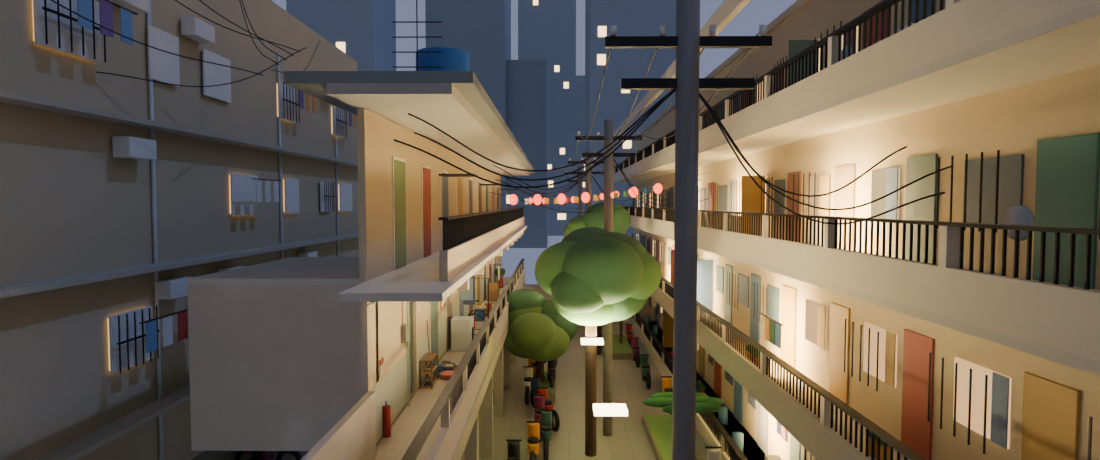
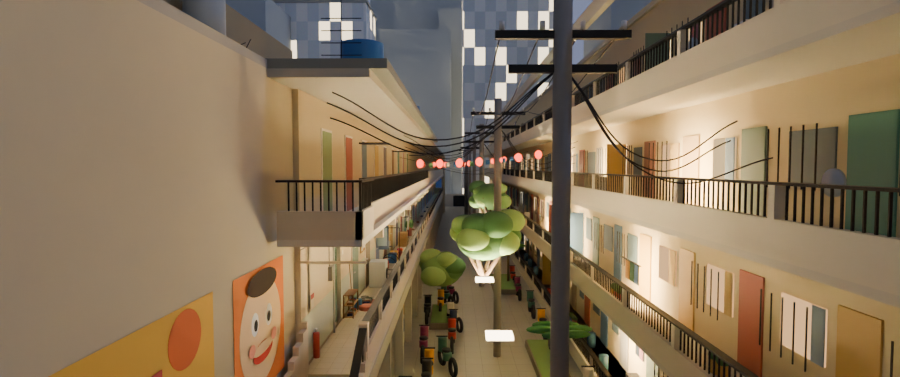
Ho so 02: chi tiet xa (nha cua so, can cau, thap, cay, chim), sua chau cay/cay lo lung
Claude-Session: https://claude.ai/code/session_015xtvRhLRyfqVC2mbHabEYR

diff --git a/episodes/hem-co-chuyen/ho-so-02-nguoi-lam-thay/assets/boi-canh-3d/moi_truong.py b/episodes/hem-co-chuyen/ho-so-02-nguoi-lam-thay/assets/boi-canh-3d/moi_truong.py
@@ -130,7 +130,8 @@ def build(X, m, coll, night, hl_y1):
             elif kind == 'cay':
                 for k in range(r.randint(2, 4)):
                     cyl(f'env_chau{nm}{k}', cx - 0.2, y + 0.1 + k * 0.3, zb + 0.15, 0.1, 0.3, mat(r.choice(['#b0605a', '#6a8aa6', '#c9a15a']), 0.7), coll=coll, bevel=0.01)
-                    sphere(f'env_la{nm}{k}', cx - 0.2, y + 0.1 + k * 0.3, zb + 0.4, 0.13, mat('#4f7a4a', 0.8), scale=(1, 1, 0.8), coll=coll)
+                    sphere(f'env_la{nm}{k}', cx - 0.2, y + 0.1 + k * 0.3, zb + 0.37, 0.13, mat('#4f7a4a', 0.8), scale=(1, 1, 0.8), coll=coll)
+                    cyl(f'env_than_la{nm}{k}', cx - 0.2, y + 0.1 + k * 0.3, zb + 0.33, 0.012, 0.08, mat('#5a4a2a', 0.9), coll=coll)
             elif kind == 'phoi':
                 B(f'phoi_k{nm}', BX - 0.25, BX - 0.2, y, y + 1.4, zb + 1.7, zb + 1.72, steel, coll=coll)
                 for k in range(r.randint(2, 4)): B(f'ao{nm}{k}', BX - 0.24, BX - 0.22, y + 0.1 + k * 0.33, y + 0.38 + k * 0.33, zb + 1.2, zb + 1.7, mat(r.choice(['#e8e4d8', '#7fa0c0', '#d8a05a', '#8a6a9a', '#5a7a5a']), 0.9), coll=coll)
@@ -166,9 +167,10 @@ def build(X, m, coll, night, hl_y1):
     def tree(x, y, h, tint='#4f7a4a'):
         for k in range(4):  # cành chính toả ra từ thân
             a = k * 1.57 + rnd.uniform(0, 0.6); canh(x, y, GZ + h * 0.5, 0.9 * math.cos(a), 0.9 * math.sin(a), h * 0.22, 0.07)
+        sphere(f'env_tan_chinh{x:.0f}{y:.0f}', x, y, GZ + h * 0.72, 0.95, mat(tint, 0.85), scale=(1, 1, 0.8), coll=coll)  # tán chính ôm đỉnh thân
         for k in range(14):  # cụm lá nhỏ ở đầu cành, nhiều tông xanh
-            a = rnd.uniform(0, 6.283); rr = rnd.uniform(0.4, 1.4)
-            sphere(f'env_cum_la{x:.0f}{y:.0f}{k}', x + rr * math.cos(a), y + rr * math.sin(a), GZ + h * 0.7 + rnd.uniform(-0.4, 0.9), rnd.uniform(0.38, 0.6), mat(rnd.choice(['#5f8d54', '#7aa35f', '#4a7a47', '#8db36a']), 0.85), scale=(1, 1, 0.75), coll=coll)
+            a = rnd.uniform(0, 6.283); rr = rnd.uniform(0.2, 0.95)
+            sphere(f'env_cum_la{x:.0f}{y:.0f}{k}', x + rr * math.cos(a), y + rr * math.sin(a), GZ + h * 0.7 + rnd.uniform(-0.3, 0.7), rnd.uniform(0.38, 0.6), mat(rnd.choice(['#5f8d54', '#7aa35f', '#4a7a47', '#8db36a']), 0.85), scale=(1, 1, 0.75), coll=coll)
     def tree_old(x, y, h, tint='#4f7a4a'):
         cyl(f'env_than_cay{x:.0f}{y:.0f}', x, y, GZ + h * 0.3, 0.16, h * 0.6, mat('#5a4636', 0.95), coll=coll, bevel=0.02)
         for k in range(9):
@@ -298,6 +300,7 @@ def build(X, m, coll, night, hl_y1):
     mo_rong(X, m, coll, night, hl_y1)
     hem_chi_tiet(X, coll, night)
     tranh_tuong(X, coll, night)
+    xa_chi_tiet(X, coll, night)
     # ------------------------------------------------------------ cửa hành lang phòng Nam: mỗi cửa một cảnh riêng
     items = ['giay', 'may_giat', 'xe_dap', 'ghe_ban', 'ban_tho', 'carton', 'phoi_quat', 'khoa_cay']
     for k, kind in enumerate(items):
@@ -340,7 +343,7 @@ def build(X, m, coll, night, hl_y1):
         elif kind == 'khoa_cay':
             B('rieng_khoa', EX - 0.06, EX - 0.03, a + 0.7, a + 0.78, 1.0, 1.15, steel, coll=coll)
             cyl('rieng_chau_cay', EX - 0.35, a - 0.2, 0.3, 0.15, 0.6, mat('#b0605a', 0.7), coll=coll, bevel=0.015)
-            for q in range(7): sphere(f'env_rieng_la{q}', EX - 0.35 + 0.15 * math.cos(q * 0.9), a - 0.2 + 0.15 * math.sin(q * 0.9), 0.75 + 0.06 * q % 4 * 0.2, 0.12, mat('#4f7a4a', 0.8), scale=(1, 1, 1.5), coll=coll)
+            for q in range(7): sphere(f'env_rieng_la{q}', EX - 0.35 + 0.15 * math.cos(q * 0.9), a - 0.2 + 0.15 * math.sin(q * 0.9), 0.66 + 0.05 * (q % 4), 0.12, mat('#4f7a4a', 0.8), scale=(1, 1, 1.5), coll=coll)
         # đèn cửa + số phòng riêng
         B(f'rieng_den{k}', EX - 0.09, EX, a + 0.3, a + 0.5, 2.18, 2.28, mat('#d8d4c8', 0.5), bevel=0.01, coll=coll)
         sphere(f'env_rieng_bong{k}', EX - 0.06, a + 0.4, 2.12, 0.05, glow('#fff1d6', 12.0 if night else 1.5), coll=coll)
@@ -524,9 +527,9 @@ def hem_chi_tiet(X, coll, night, rnd_seed=303):
     for i in range(6):
         yy = y0 + 0.25 + i * 0.45
         cyl(f'env_hc_chau{i}', AX - d + 0.14, yy, zb + 0.18, 0.12, 0.3, mat(rnd.choice(['#b0605a', '#c8a15a', '#6a8aa6']), 0.7), coll=coll, bevel=0.01)
-        for q in range(4): sphere(f'env_hc_la{i}_{q}', AX - d + 0.14 + 0.08 * math.cos(q * 1.6), yy + 0.08 * math.sin(q * 1.6), zb + 0.5 + 0.06 * q % 3 * 0.3, 0.12, mat(rnd.choice(['#4f7a4a', '#6f9a55']), 0.8), scale=(1, 1, 1.2), coll=coll)
+        for q in range(4): sphere(f'env_hc_la{i}_{q}', AX - d + 0.14 + 0.08 * math.cos(q * 1.6), yy + 0.08 * math.sin(q * 1.6), zb + 0.38 + 0.04 * (q % 3), 0.12, mat(rnd.choice(['#4f7a4a', '#6f9a55']), 0.8), scale=(1, 1, 1.2), coll=coll)
         if i % 2 == 0:
-            for q in range(3): sphere(f'env_hc_hoa{i}_{q}', AX - d + 0.14 + 0.05 * q, yy + 0.04 * q, zb + 0.62, 0.05, mat(rnd.choice(['#e86a8a', '#f2d24a', '#e8e4d8']), 0.7), coll=coll)
+            for q in range(3): sphere(f'env_hc_hoa{i}_{q}', AX - d + 0.14 + 0.05 * q, yy + 0.04 * q, zb + 0.5, 0.05, mat(rnd.choice(['#e86a8a', '#f2d24a', '#e8e4d8']), 0.7), coll=coll)
     # dây phơi ngang ban công + quần áo (khác nhau)
     B('bc_day_phoi', AX - d + 0.1, AX - 0.1, y0 + 0.2, y0 + 0.215, zb + 1.9, zb + 1.915, steel, coll=coll)
     for q in range(5):
@@ -567,7 +570,7 @@ def hem_chi_tiet(X, coll, night, rnd_seed=303):
     for k in range(3): cyl(f'env_hc_thung{k}', W + T + 1.9, -2.0 + k * 0.6, GZ + 0.4, 0.26, 0.8, mat(rnd.choice(['#3b6e4b', '#2b4a7a', '#8a8a8a']), 0.55), coll=coll, bevel=0.02)
     for k in range(5):
         cyl(f'env_hc_chau_hem{k}', W + T + 0.4, -3.5 + k * 1.1, GZ + 0.15, 0.17, 0.3, mat(rnd.choice(['#b0605a', '#c8a15a']), 0.7), coll=coll, bevel=0.01)
-        for q in range(4): sphere(f'env_hc_la_hem{k}_{q}', W + T + 0.4 + 0.09 * math.cos(q * 1.6), -3.5 + k * 1.1 + 0.09 * math.sin(q * 1.6), GZ + 0.45 + 0.05 * q, 0.14, mat('#4f7a4a', 0.8), scale=(1, 1, 1.3), coll=coll)
+        for q in range(4): sphere(f'env_hc_la_hem{k}_{q}', W + T + 0.4 + 0.09 * math.cos(q * 1.6), -3.5 + k * 1.1 + 0.09 * math.sin(q * 1.6), GZ + 0.38 + 0.04 * q, 0.14, mat('#4f7a4a', 0.8), scale=(1, 1, 1.3), coll=coll)
     B('vung_nuoc', W + T + 0.5, W + T + 1.5, 1.0, 2.6, GZ + 0.002, GZ + 0.006, mat('#6f8590', 0.05), coll=coll)
     B('ong_thoat_nuoc', W + T + 0.02, W + T + 0.08, 4.2, 4.26, GZ, GZ + FL * 3, mat('#cfd3cf', 0.45), coll=coll)
 
@@ -631,3 +634,85 @@ def tranh_tuong(X, coll, night=False):
     mural('hem_hoa_sen', '-x', AX, -9.0, GZ + 0.3, 3.4, 2.3, HOA_SEN)
     mural('hem_pho_xe', '-x', AX, 5.2, GZ + 0.3, 4.4, 2.1, PHO_XE)
     mural('hem_mat_cuoi', '-x', AX, -4.6, GZ + 0.3, 1.9, 1.9, MAT_CUOI)
+
+
+def vat_lieu_nha_xa(tag, mau_tuong, mau_cua, night):
+    """Mặt tiền nhà xa: lưới cửa sổ (Checker theo toạ độ vật thể), đậm dần theo chiều cao; ban đêm một phần ô phát sáng."""
+    k = ('xa', tag, night)
+    if k in _cache: return _cache[k]
+    m = bpy.data.materials.new('exa_' + tag); m.use_nodes = True; nt = m.node_tree; N, L = nt.nodes, nt.links
+    for n in list(N): N.remove(n)
+    import mathutils
+    def hx(h): h = h.lstrip('#'); return tuple(int(h[i:i + 2], 16) / 255 for i in (0, 2, 4)) + (1,)
+    tc = N.new('ShaderNodeTexCoord'); mp = N.new('ShaderNodeMapping'); mp.inputs['Scale'].default_value = (0.5, 0.5, 0.3); L.new(tc.outputs['Object'], mp.inputs['Vector'])
+    ck = N.new('ShaderNodeTexChecker'); ck.inputs['Scale'].default_value = 1.0; L.new(mp.outputs['Vector'], ck.inputs['Vector'])
+    ck.inputs['Color1'].default_value = hx(mau_tuong); ck.inputs['Color2'].default_value = hx(mau_cua)
+    nz = N.new('ShaderNodeTexNoise'); nz.inputs['Scale'].default_value = 4.0; L.new(tc.outputs['Object'], nz.inputs['Vector'])
+    mix = N.new('ShaderNodeMix'); mix.data_type = 'RGBA'; mix.inputs['Factor'].default_value = 0.12; L.new(ck.outputs['Color'], mix.inputs['A']); L.new(nz.outputs['Color'], mix.inputs['B'])
+    bs = N.new('ShaderNodeBsdfPrincipled'); bs.inputs['Roughness'].default_value = 1.0; L.new(mix.outputs['Result'], bs.inputs['Base Color'])
+    out = N.new('ShaderNodeOutputMaterial')
+    if night:
+        em = N.new('ShaderNodeEmission'); em.inputs['Color'].default_value = (1.0, 0.82, 0.55, 1); em.inputs['Strength'].default_value = 2.2
+        fl = N.new('ShaderNodeVectorMath'); fl.operation = 'FLOOR'; L.new(mp.outputs['Vector'], fl.inputs[0])
+        nz2 = N.new('ShaderNodeTexNoise'); nz2.inputs['Scale'].default_value = 2.7; nz2.inputs['Detail'].default_value = 0.0; L.new(fl.outputs['Vector'], nz2.inputs['Vector'])
+        ths = N.new('ShaderNodeMath'); ths.operation = 'GREATER_THAN'; ths.inputs[1].default_value = 0.52; L.new(nz2.outputs['Fac'], ths.inputs[0])
+        win = N.new('ShaderNodeMath'); win.operation = 'LESS_THAN'; win.inputs[1].default_value = 0.5; L.new(ck.outputs['Fac'], win.inputs[0])
+        both = N.new('ShaderNodeMath'); both.operation = 'MULTIPLY'; L.new(ths.outputs[0], both.inputs[0]); L.new(win.outputs[0], both.inputs[1])
+        mx = N.new('ShaderNodeMixShader'); L.new(both.outputs[0], mx.inputs[0]); L.new(bs.outputs[0], mx.inputs[1]); L.new(em.outputs[0], mx.inputs[2]); L.new(mx.outputs[0], out.inputs['Surface'])
+    else:
+        L.new(bs.outputs[0], out.inputs['Surface'])
+    _cache[k] = m; return m
+
+
+def xa_chi_tiet(X, coll, night):
+    """Vài chi tiết đơn giản ở xa: toà nhà có lưới cửa sổ, bể nước + ăng-ten + hộp kỹ thuật trên mái, cần cẩu công trường, tháp phát sóng có đèn đỏ,
+    dãy cây xa, đàn chim, ống khói/khối điều hoà trung tâm."""
+    box, cyl, sphere, M = X.box, X.cyl, X.sphere, X.M
+    GZ = -2.92; rnd = random.Random(555)
+    def mat(color, rough=0.8, metal=0.0):
+        k = ('xs', color, rough, metal)
+        if k not in _cache: _cache[k] = M.solid('exs_' + color.strip('#') + f'_{int(rough*10)}', color, rough, metal)
+        return _cache[k]
+    def glow(color, st):
+        k = ('xg', color, st)
+        if k not in _cache: _cache[k] = M.emission('exg_' + color.strip('#') + str(st), color, st)
+        return _cache[k]
+    def B(name, *a, **kw): return box('env_xa_' + name, *a, **kw)
+    pal = [('#c9ccc8', '#9aa8b2'), ('#d8c9a8', '#97a2aa'), ('#b8c2c8', '#8797a4'), ('#cfc2b0', '#a09890'), ('#c2cdbd', '#8c9c94')]
+    for li, dist in enumerate((90, 150, 230)):
+        for k in range(18):
+            a = math.radians(rnd.uniform(0, 360)); r = dist + rnd.uniform(-12, 40)
+            cx, cy = math.cos(a) * r - 8, math.sin(a) * r * 0.9 + 12
+            hh = rnd.uniform(16, 52) * (1 + li * 0.18); w1 = rnd.uniform(9, 20); d1 = rnd.uniform(9, 18)
+            col = pal[(li + k) % len(pal)]
+            mm = vat_lieu_nha_xa(f'{li}_{k % 5}', col[0], col[1], night)
+            B(f'toa{li}_{k}', cx - w1 / 2, cx + w1 / 2, cy - d1 / 2, cy + d1 / 2, GZ - 1, GZ + hh, mm, coll=coll)
+            top = GZ + hh
+            B(f'toa_mai{li}_{k}', cx - w1 / 2 - 0.3, cx + w1 / 2 + 0.3, cy - d1 / 2 - 0.3, cy + d1 / 2 + 0.3, top, top + 0.5, mat('#9a9a94'), coll=coll)
+            if rnd.random() < 0.6: cyl(f'env_xa_be{li}_{k}', cx + rnd.uniform(-w1 / 4, w1 / 4), cy + rnd.uniform(-d1 / 4, d1 / 4), top + 1.6, rnd.uniform(1.0, 1.6), 2.4, mat(rnd.choice(['#2f6fb0', '#b9bdbb', '#c9c2ae']), 0.4), coll=coll)
+            if rnd.random() < 0.5:
+                cyl(f'env_xa_angten{li}_{k}', cx, cy, top + 3, 0.12, 6.0, mat('#444444'), coll=coll)
+                B(f'angten_n{li}_{k}', cx - 1.2, cx + 1.2, cy - 0.06, cy + 0.06, top + 4.2, top + 4.35, mat('#444444'), coll=coll)
+            if rnd.random() < 0.35: B(f'hop_kt{li}_{k}', cx - 2, cx + 2, cy - 1.5, cy + 1.5, top + 0.5, top + 2.2, mat('#b5b2a8'), coll=coll)
+    # cần cẩu công trường (xa, bên trái)
+    for (cx, cy) in [(-60, 120), (35, 150)]:
+        B(f'can_cau_thap{cx}', cx - 0.8, cx + 0.8, cy - 0.8, cy + 0.8, GZ, GZ + 62, mat('#e0a030', 0.6), coll=coll)
+        B(f'can_cau_tay{cx}', cx - 22, cx + 14, cy - 0.5, cy + 0.5, GZ + 62, GZ + 63.2, mat('#e0a030', 0.6), coll=coll)
+        B(f'can_cau_doi{cx}', cx + 14, cx + 18, cy - 0.5, cy + 0.5, GZ + 59, GZ + 63.2, mat('#555555'), coll=coll)
+        B(f'can_cau_cap{cx}', cx - 15, cx - 14.9, cy - 0.05, cy + 0.05, GZ + 50, GZ + 62, mat('#222222'), coll=coll)
+        B(f'can_cau_moc{cx}', cx - 15.5, cx - 14.5, cy - 0.5, cy + 0.5, GZ + 49, GZ + 50, mat('#222222'), coll=coll)
+        sphere(f'env_xa_den_cau{cx}', cx, cy, GZ + 64.2, 0.6, glow('#ff3a2a', 9.0 if night else 1.0), coll=coll)
+    # tháp phát sóng xa có đèn đỏ nhấp nháy tĩnh
+    B('thap_phat_song', -97, -95, 197, 199, GZ, GZ + 150, mat('#c24a3a', 0.6), coll=coll)
+    for z in (40, 80, 120): B(f'thap_ngang{z}', -100, -92, 196.2, 199.8, GZ + z, GZ + z + 0.8, mat('#e8e4d8', 0.6), coll=coll)
+    sphere('env_xa_den_thap', -96, 198, GZ + 151, 1.2, glow('#ff3a2a', 12.0 if night else 1.0), coll=coll)
+    # dãy cây xa (lùm tròn thấp) phía ngoài hai đầu sân
+    for k in range(40):
+        cx = rnd.uniform(-60, 30); cy = rnd.choice([-1, 1]) * rnd.uniform(110, 150) + (40 if k % 2 else 0)
+        sphere(f'env_xa_cay{k}', cx, cy, GZ + rnd.uniform(5, 9), rnd.uniform(4, 7), mat(rnd.choice(['#4a7a47', '#5f8d54', '#3f6e45']), 0.9), scale=(1, 1, 0.8), coll=coll)
+    # đàn chim (ban ngày) — chữ V dẹt
+    if not night:
+        for k in range(12):
+            bx_ = rnd.uniform(-40, -10) + k * 1.5; by_ = 12 + rnd.uniform(-8, 8) + k * 1.2; bz = 30 + rnd.uniform(-3, 3) + (k % 3)
+            B(f'chim_a{k}', bx_ - 0.4, bx_ + 0.0, by_ - 0.02, by_ + 0.02, bz, bz + 0.06, mat('#222222'), coll=coll, rot=(0, 0, math.radians(18)), pivot=(bx_, by_, bz))
+            B(f'chim_b{k}', bx_, bx_ + 0.4, by_ - 0.02, by_ + 0.02, bz, bz + 0.06, mat('#222222'), coll=coll, rot=(0, 0, math.radians(-18)), pivot=(bx_, by_, bz))

diff --git a/episodes/hem-co-chuyen/ho-so-02-nguoi-lam-thay/assets/boi-canh-3d/xay_phong_tro.py b/episodes/hem-co-chuyen/ho-so-02-nguoi-lam-thay/assets/boi-canh-3d/xay_phong_tro.py
@@ -503,8 +503,9 @@ def hallway(m, coll, night):
     cyl('chau_cay', -1.15, 5.2, 0.16, 0.15, 0.3, M.solid('chau', '#b0605a', 0.6), coll=coll, bevel=0.012)
     cyl('dat_chau', -1.15, 5.2, 0.31, 0.13, 0.02, M.solid('dat', '#5a4a3a', 0.95), coll=coll, smooth=False)
     import random; rnd = random.Random(7)
+    cyl('chau_cay_than', -1.15, 5.2, 0.4, 0.014, 0.26, M.solid('than_cay', '#5a4a2a', 0.9), coll=coll)  # thân/cành nối đất với tán lá
     for i in range(11):
-        a = rnd.uniform(0, 6.283); r = rnd.uniform(0.0, 0.12); h = 0.46 + rnd.uniform(0.0, 0.2)
+        a = rnd.uniform(0, 6.283); r = rnd.uniform(0.0, 0.12); h = 0.38 + rnd.uniform(0.0, 0.14)
         sphere(f'la{i}', -1.15 + r * math.cos(a), 5.2 + r * math.sin(a), h, rnd.uniform(0.08, 0.12), m['cay'], scale=(1.0, 1.0, 0.55), coll=coll)
     for i in range(3):
         box(f'giay{i}', -0.45, -0.25, 4.7 + i * 0.22, 4.86 + i * 0.22, 0.0, 0.08, M.solid('giay_hl', '#8a8783', 0.7), bevel=0.02, coll=coll, rot=(0, 0, math.radians(10 * i)))
@@ -650,6 +651,9 @@ CAMERAS = {  # tên: (vị trí, điểm nhìn, tiêu cự mm)
     'DAU_NHA': ((-5.5, -7.0, 1.8), (-1.0, -0.5, 1.2), 22),   # đầu hành lang/cầu thang nhìn từ sân
     'TAY_NAM': ((1.0, 2.55, 1.15), (0.0, 2.12, 1.02), 50),   # nhìn tay nắm + ổ khóa cửa từ trong phòng
     'TAY_NAM_NGOAI': ((-0.8, 2.3, 1.15), (0.0, 2.12, 1.0), 50),  # tay nắm từ hành lang (cửa đóng: --door 0)
+    'CAY': ((-0.9, 1.0, -0.4), (-4.2, 6.5, 0.2), 28),    # cây lớn ở sân (thân, cành, tán)
+    'CAU': ((-3.4, 2.0, -1.8), (-6.5, 5.0, -1.2), 35),    # cau cảnh + bồn cây
+    'CHAU_HL': ((-0.6, 3.6, 1.0), (-1.15, 5.2, 0.4), 35),  # chậu cây hành lang
     'TOP': ((1.5, 2.0, 5.6), (1.5, 2.0, 0.0), 24),
     'LOW': ((1.0, 3.7, 0.35), (2.2, 0.6, 1.0), 24),
 }

diff --git a/episodes/hem-co-chuyen/ho-so-02-nguoi-lam-thay/assets/boi-canh-3d/RA-SOAT-13-11.md b/episodes/hem-co-chuyen/ho-so-02-nguoi-lam-thay/assets/boi-canh-3d/RA-SOAT-13-11.md
@@ -51,3 +51,7 @@ Chưa xác định được chỗ "vạch trắng thẳng" ở ảnh thu nhỏ t
 - **Cầu thang tầng 1:** chủ repo xác nhận tốt, giữ nguyên.
 - **Tầng 2/3, phần hở đầu nhà:** thêm lan can che — mép sàn tầng 3 nhô ra trên cầu thang (thành thấp + tay vịn + con tiện, 3 mặt), chiếu nghỉ tầng 2 (trụ hai bên + dầm cổng). Camera `DAU_NHA`.
 - **Tường ngoài trống:** thêm 5 kiểu tranh đường phố (`tranh_tuong` trong `moi_truong.py`): làng quê (mặt trời, đồi, sông, thuyền, diều), hoa sen, phố xe máy, graffiti trừu tượng, mặt cười. Đặt ở tường đầu nhà hướng sân (4 tranh), tường rào đầu sân (2) và tường nhà hàng xóm bên hẻm (3). Mỗi tranh là các hình phẳng xếp lớp (chưa phải ảnh thật; muốn tranh thật thì cần cung cấp ảnh/texture có quyền sử dụng).
+
+## Vòng rà thứ năm
+- **Chi tiết xa (`xa_chi_tiet`):** 54 toà nhà xa ở 3 lớp (90/150/230 m) có lưới cửa sổ (Checker theo ô, ban đêm mỗi ô sáng/tối riêng), mái có gờ + bể nước/ăng-ten/hộp kỹ thuật, 2 cần cẩu công trường (đèn đỏ), tháp phát sóng đèn đỏ, 40 lùm cây xa, đàn chim ban ngày.
+- **Cây/chậu lơ lửng (chủ repo báo):** xác nhận lá chậu cây hành lang hở khỏi miệng chậu 15 cm không có thân; lá chậu hẻm/ban công/phòng đối diện cũng hở. Đã hạ lá xuống ôm miệng chậu + thêm thân; cây lớn thêm tán chính ôm đỉnh thân và thu bán kính cụm lá để không còn cụm lá rời xa cành. Camera `CAY`, `CAU`, `CHAU_HL`.
